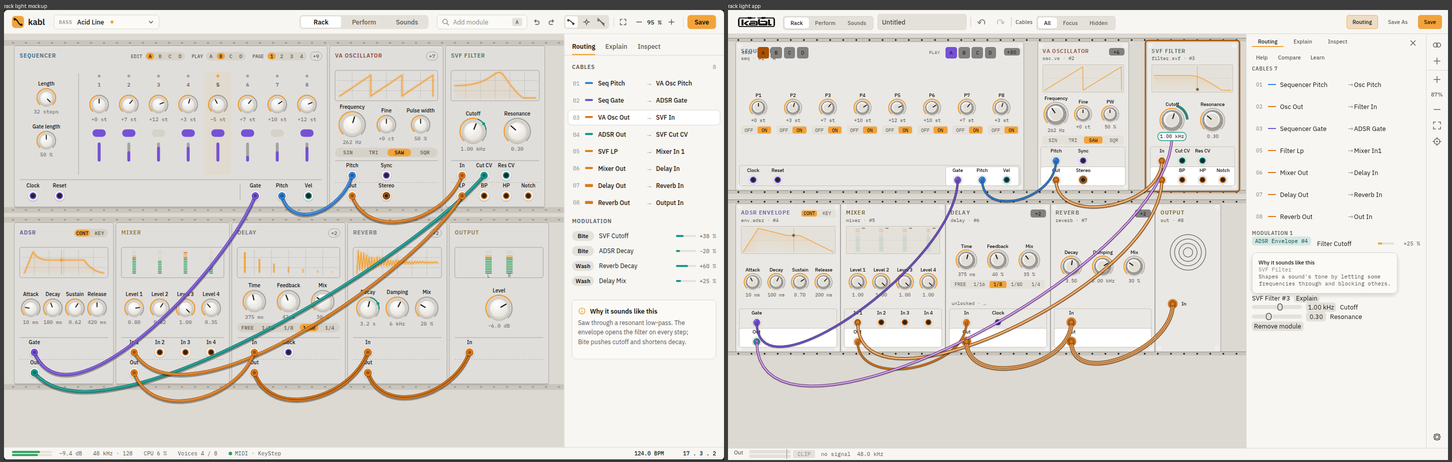
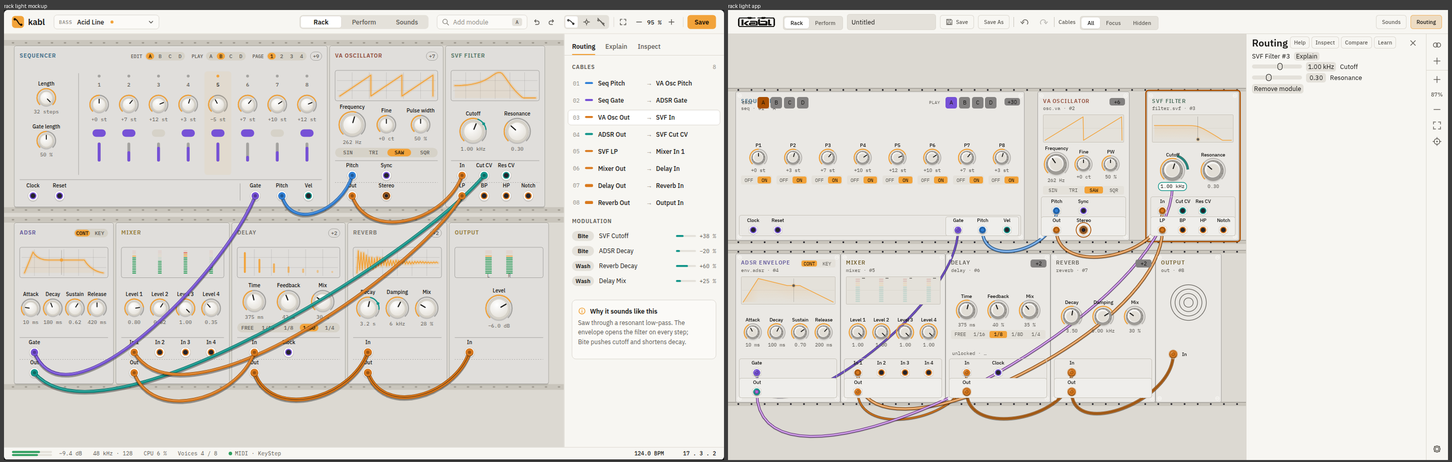
Theme tokens: port tray plate a quarter of the way from face to raised
The jack tray plate was the raised role (white on paper) and far brighter than the line face; the mockup's line faces barely tint it. Recaptured rack, module 2x and Perform (mockup-like patch: 4 macros, 3 sequencers, 8 scenes) in light and dark.

diff --git a/crates/ui/src/kit/parts.rs b/crates/ui/src/kit/parts.rs
@@ -152,7 +152,8 @@ pub fn tray(p: &Painter, st: &Style, rect: Rect, plate: Option<Rect>, z: f32) {
         StrokeKind::Inside,
     );
     if let Some(pl) = plate {
-        p.rect_filled(pl, cr(5.0, z), r.raised);
+        // The mockup's line faces barely tint the plate: a quarter of the way from face to raised.
+        p.rect_filled(pl, cr(5.0, z), mix(st.sections.amp.base, r.raised, 0.25));
         p.rect_stroke(
             pl,
             cr(5.0, z),
